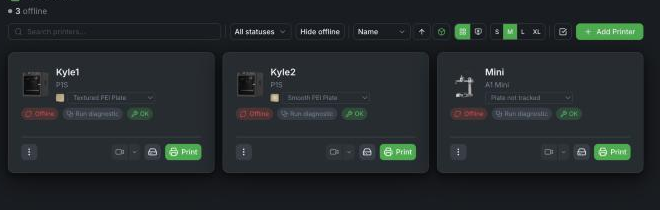
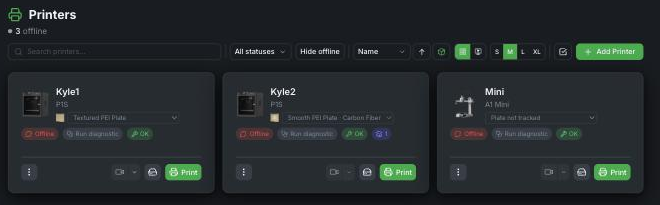
docs: build plates as a plate type plus an optional pattern (bambuddy#1306)
The settings now tick the plate types you own (started from print history)
and add patterns such as 3D Effect sheets under a type, instead of a catalog
of individual plates. Screenshots updated.

diff --git a/docs/features/build-plates.md b/docs/features/build-plates.md
@@ -15,11 +15,13 @@ Tracking is **off by default**. While it is off, plates are ignored everywhere a
 
 1. Open **Settings → Workflow → Queue & Dispatch**.
 2. In the **Build Plates** card, turn on **Enable build plate tracking**.
-3. Under **Which plates do you own?**, tick the plates you use. Only ticked plates can be chosen for a printer or a job.
+3. Under **Which plates do you own?**, tick the plate types you use. Only ticked plates are offered on printer cards and in the print dialog, so someone with two plates sees two.
+
+The first time, the types you have already printed on (from your print archive) start ticked. With no print history yet, every type starts ticked.
 
 ![Build Plates settings](../assets/build-plates/settings-build-plates.png){ .screenshot }
 
-Plates are grouped by the plate type the slicer knows them as:
+A plate type is what the slicer calls the plate, so the list is fixed:
 
 | Plate type | Slicer names it matches |
 |------------|-------------------------|
@@ -27,23 +29,21 @@ Plates are grouped by the plate type the slicer knows them as:
 | Textured Cool Plate | Textured Cool Plate (OrcaSlicer) |
 | Cool Plate SuperTack | Supertack Plate |
 | Engineering Plate | Engineering Plate |
-| Smooth PEI / High Temp Plate | High Temp Plate, Smooth PEI Plate |
+| Smooth PEI Plate | High Temp Plate, Smooth PEI Plate |
 | Textured PEI Plate | Textured PEI Plate, PEI Plate |
 
-Patterned plates such as the Bambu **3D Effect** sheets are listed under the plate type they are sliced as (Smooth PEI / High Temp Plate), so a file sliced for a smooth PEI plate can print on any of them.
+### Patterns
 
-### Add your own plate
+Some plates are a plate type with a pattern on top, such as the Bambu **3D Effect** sheets (Carbon Fiber, Starry, Diamond, Galaxy), which are all sliced as Smooth PEI. If the pattern matters to a print, add it under its type:
 
-Click **Add custom plate** for a third-party or custom plate and fill in:
+1. Click **Add pattern** under the plate type, for example **Smooth PEI Plate**.
+2. Type the name, or pick one of the suggestions, and click **Add**.
 
-- **Name** — how the plate appears on printer cards and in the print dialog, for example *Gold PEI*.
-- **Slicer plate type** — the plate type you select in the slicer when you print on this plate. This decides which files can print on it.
-- **Pattern** (optional) — shown under the name, for example *Carbon Fiber*.
-- **Photo URL** (optional) — an image shown on the plate's tile.
+The plate then appears as **Smooth PEI Plate · Carbon Fiber**. A patterned plate is still a plate of its type, so it takes any job sliced for that type; only a job that asks for the pattern needs it. Any name works, so third-party textured sheets can be added the same way.
 
-A custom plate can be deleted with the bin icon on its tile. Printers that had it fitted become **not tracked**, and queued jobs that asked for it accept any plate of the same type instead.
+Unticking a type only hides it from the plate lists. Printers that have it fitted keep it, and queued jobs that need it keep waiting for it, so the settings page asks first when the type is in use.
 
-Unticking a plate that is fitted to a printer, or that queued jobs are waiting for, asks for confirmation first. The plate is hidden from new jobs; jobs already waiting for it keep waiting.
+Removing a pattern asks first when it is in use. Printers that had it fitted keep the plate type without the pattern, and queued jobs that asked for it accept any plate of that type.
 
 ## Set the plate on each printer
 
@@ -66,11 +66,11 @@ When you add a job to the queue (or edit a queued job), the print dialog has a *
 
 | Option | The job runs on |
 |--------|-----------------|
-| **Any *&lt;type&gt;*** (the default) | Any printer with a plate of the type the file was sliced for. Shown as **Plate from file** until the file's plate type has been read. |
-| A specific plate, for example *3D Effect – Carbon Fiber* | Only a printer with that exact plate fitted. Useful when the plate's pattern matters to the print. |
+| **Any *&lt;type&gt;*** (the default) | Any printer with a plate of the type the file was sliced for, with or without a pattern. Shown as **Plate from file** until the file's plate type has been read. |
+| A pattern, for example **Smooth PEI Plate · Carbon Fiber** | Only a printer with that plate and pattern fitted. Only the patterns of the file's plate type are offered. |
 | **Any plate (ignore plate)** | Any printer, whatever plate it has. Use it for a file you know prints fine on other plates. |
 
-For a multi-plate 3MF, the plate type is read for the plate you selected, not for the first plate in the file.
+For a multi-plate 3MF, the plate type is read for the plate you selected, not for the first plate in the file. The file decides the plate type even if you have unticked that type: the job then waits until a printer has that plate recorded.
 
 Jobs added without the dialog (from the Virtual Printer, webhooks, slicer pipelines or a library bulk add) get their plate type from the file the first time the queue looks at them. A file whose plate type cannot be read never blocks a job: it is treated as **Any plate**.
 
@@ -86,7 +86,7 @@ Jobs added without the dialog (from the Virtual Printer, webhooks, slicer pipeli
 
 Once you swap the plate and set it on the printer card, waiting jobs for that plate start on the next queue check.
 
-The queue card also shows the plate a job needs next to the file's details. While tracking is on and the job asked for a specific plate, the card names that plate.
+The queue card shows the plate a job needs next to the file's details, followed by the pattern when the job asked for one.
 
 ## Permissions
 
@@ -94,19 +94,16 @@ With [authentication](authentication.md) enabled:
 
 | Action | Permission |
 |--------|------------|
-| See plates, the plate on each printer and a job's plate | `printers:read` |
-| Tick plates, add, edit or delete custom plates, turn tracking on or off | `settings:update` |
+| See the plates, the plate on each printer and a job's plate | `printers:read` |
+| Tick plate types, add or remove patterns, turn tracking on or off | `settings:update` |
 | Change the plate fitted to a printer | `printers:control` |
 
 ## API
 
 | Method | Endpoint | Description |
 |--------|----------|-------------|
-| `GET` | `/api/v1/build-plates` | All plates, with the printers each is fitted to and how many pending jobs asked for it |
-| `GET` | `/api/v1/build-plates/bed-types` | The plate types a plate can belong to |
-| `POST` | `/api/v1/build-plates` | Add a custom plate |
-| `PATCH` | `/api/v1/build-plates/{id}` | Edit a plate, or tick and untick it (`enabled`) |
-| `DELETE` | `/api/v1/build-plates/{id}` | Delete a custom plate |
-| `PUT` | `/api/v1/printers/{id}/installed-plate` | Set the plate fitted to a printer (`{"plate_id": 6}`, or `null` for not tracked) |
+| `GET` | `/api/v1/build-plates` | Every plate type (with whether it is owned), the patterns, and where each is fitted or needed |
+| `PUT` | `/api/v1/build-plates` | Replace the owned types and patterns: `{"types": ["smooth_pei"], "patterns": [{"base_type": "smooth_pei", "name": "Carbon Fiber"}]}` |
+| `PUT` | `/api/v1/printers/{id}/installed-plate` | Set the plate fitted to a printer: `{"plate_type": "smooth_pei", "pattern": "Carbon Fiber"}`, or `{"plate_type": null}` for not tracked |
 
-Queue items carry `required_plate_type` (a plate type, or `any`) and `required_plate_id` (a specific plate, or `null`), and printers carry `installed_plate_id`.
+Printers carry `installed_plate_type` and `installed_plate_pattern`. Queue items carry `required_plate_type` (a plate type, or `any`) and `required_plate_pattern` (a pattern, or `null` for any plate of the type).
